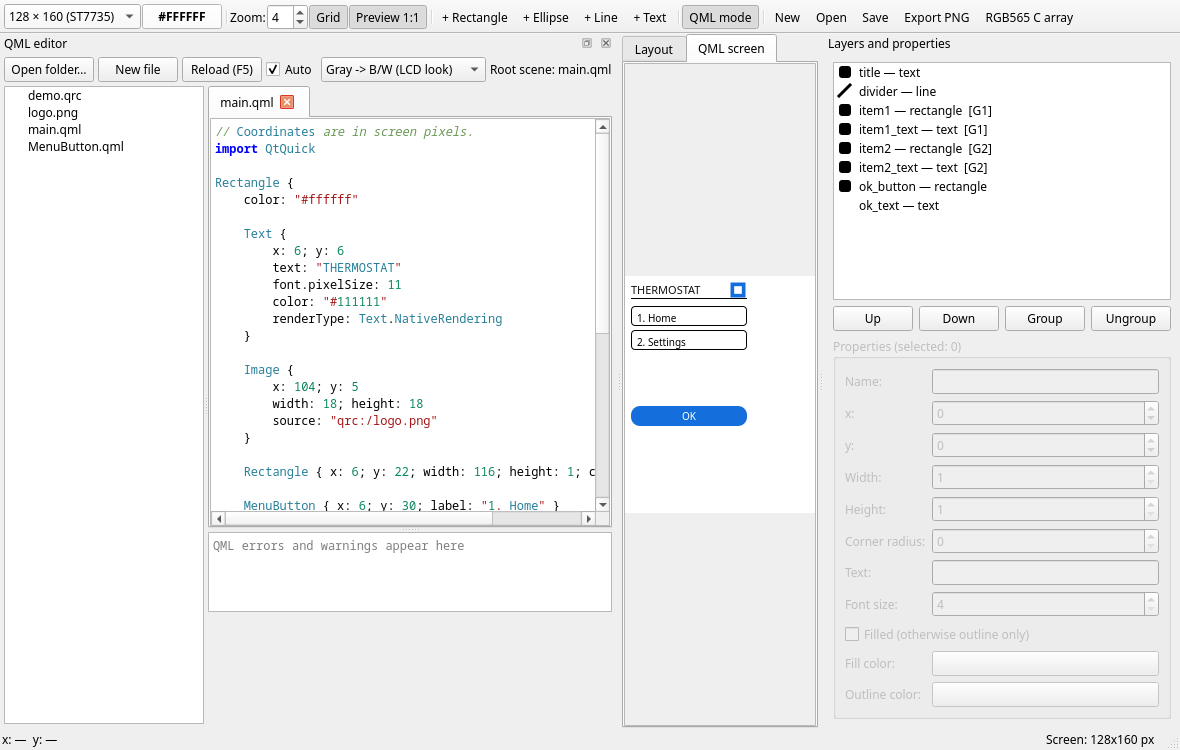
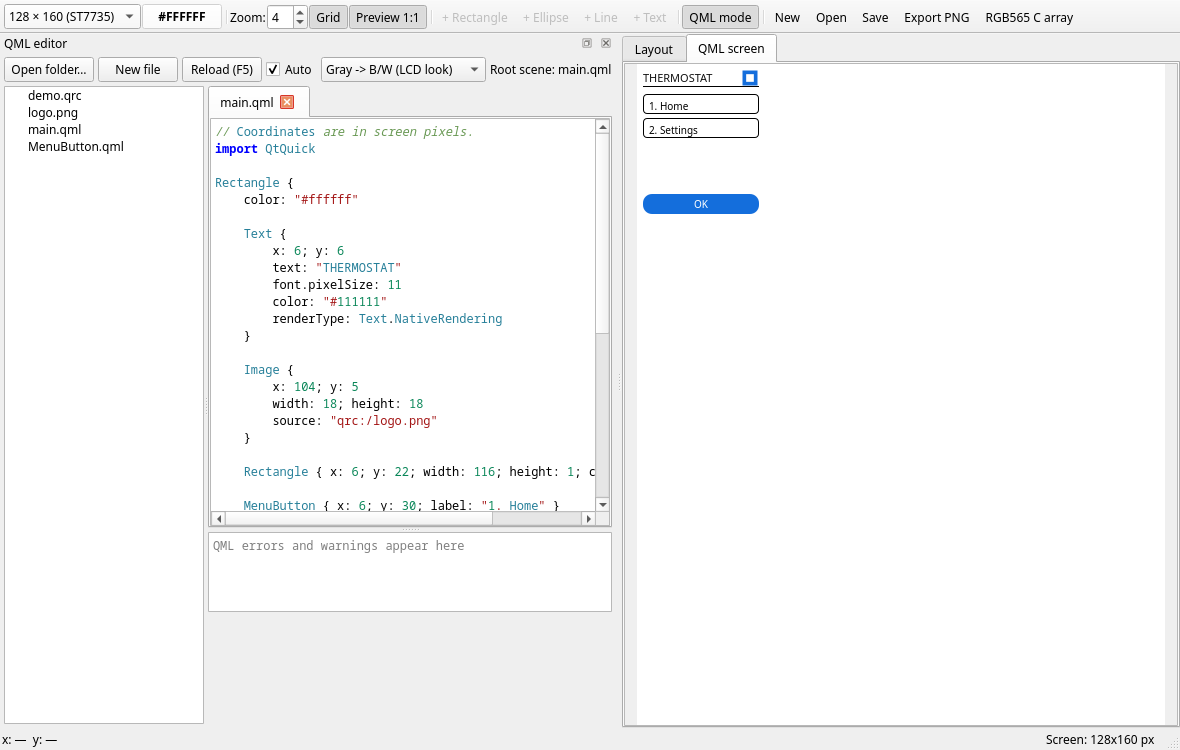
QML mode fixes: software scene graph for hidden grabber, tab-fit scaling, hide layout dock

diff --git a/src/mainwindow.cpp b/src/mainwindow.cpp
@@ -303,6 +303,7 @@ void MainWindow::buildUi()
     connect(m_qmlPane, &QmlPane::sourceEdited, this, &MainWindow::markDirty);
 
     m_qmlScroll->setWidget(m_qmlPane->previewWidget());
+    QTimer::singleShot(0, this, &MainWindow::fitQmlPreview);
 
     m_qmlDock = new QDockWidget(tr("QML editor"), this);
     m_qmlDock->setWidget(m_qmlPane);
@@ -906,9 +907,13 @@ void MainWindow::setQmlMode(bool on)
         return;
     m_qmlMode = on;
 
-    // режим включает и выключает только редактор QML-проекта;
-    // макет остаётся доступным для правки в любой момент
+    // QML-режим полностью переключает работу на QML-проект: редактор
+    // макета (док слоёв, кнопки элементов, фон) прячется до возврата
     m_qmlDock->setVisible(on);
+    m_elemDock->setVisible(!on);
+    for (QAction *a : m_elementActs)
+        a->setEnabled(!on);
+    m_bgBtn->setEnabled(!on);
     m_qmlPane->setActive(on);
     m_qmlPane->setScreenSize(m_screenW, m_screenH);
     m_stack->setCurrentIndex(on ? 1 : 0);
@@ -931,7 +936,8 @@ void MainWindow::onQmlFrame(const QImage &frame)
 
 void MainWindow::onPreviewTabChanged(int index)
 {
-    Q_UNUSED(index);
+    if (index == 1)
+        QTimer::singleShot(0, this, &MainWindow::fitQmlPreview);
     if (m_qmlMode)
         m_lastRender = m_qmlFrame;
     else

diff --git a/src/main.cpp b/src/main.cpp
@@ -5,6 +5,13 @@
 
 int main(int argc, char *argv[])
 {
+    // The 1:1 device frames come from a hidden QQuickWidget; the OpenGL
+    // backend does not render unexposed widgets, so the whole scene graph
+    // runs on the software adaptation (also pixel-identical to the layout
+    // renderer). An explicit user override still wins.
+    if (qEnvironmentVariableIsEmpty("QT_QUICK_BACKEND"))
+        qputenv("QT_QUICK_BACKEND", "software");
+
     QApplication app(argc, argv);
     QApplication::setApplicationName(QStringLiteral("QPixelDesigner"));
     QApplication::setOrganizationName(QStringLiteral("pixui"));

diff --git a/src/qmlpane.cpp b/src/qmlpane.cpp
@@ -329,6 +329,7 @@ QQuickWidget *QmlPane::previewWidget()
         m_previewQuick = new QQuickWidget(m_engine, nullptr);
         m_previewQuick->setResizeMode(QQuickWidget::SizeRootObjectToView);
         m_previewQuick->setClearColor(Qt::white);
+        m_previewQuick->setFixedSize(m_w, m_h);
         connect(m_previewQuick, &QQuickWidget::statusChanged, this,
                 [this](QQuickWidget::Status st) {
                     if (st == QQuickWidget::Error)
